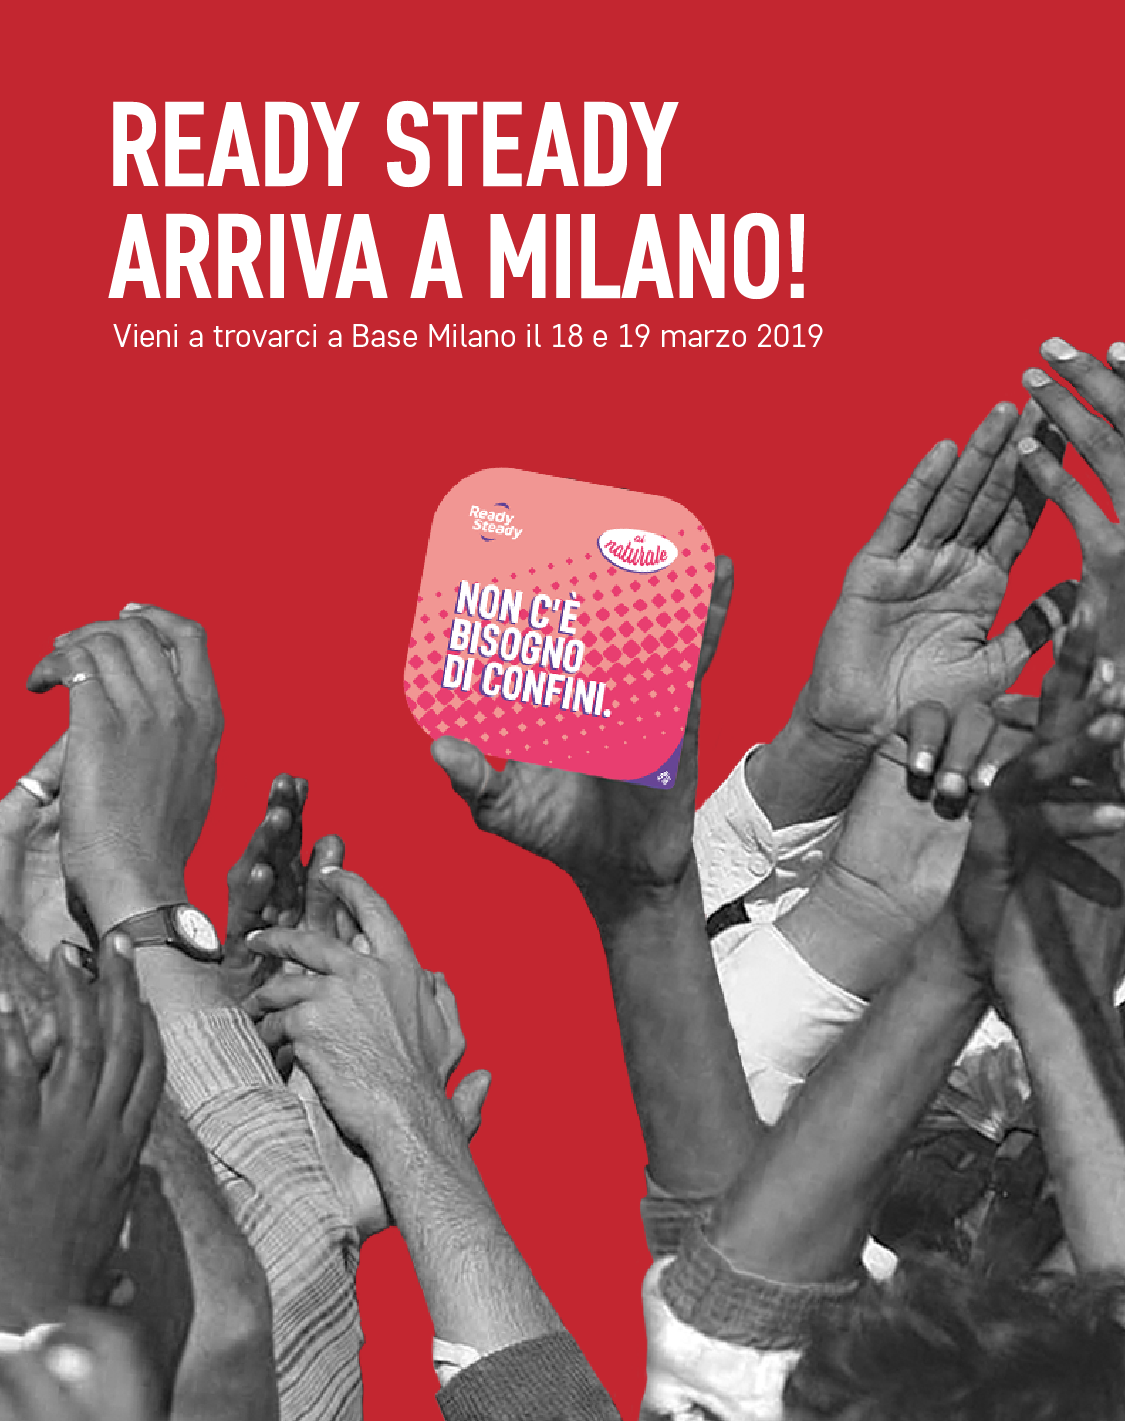
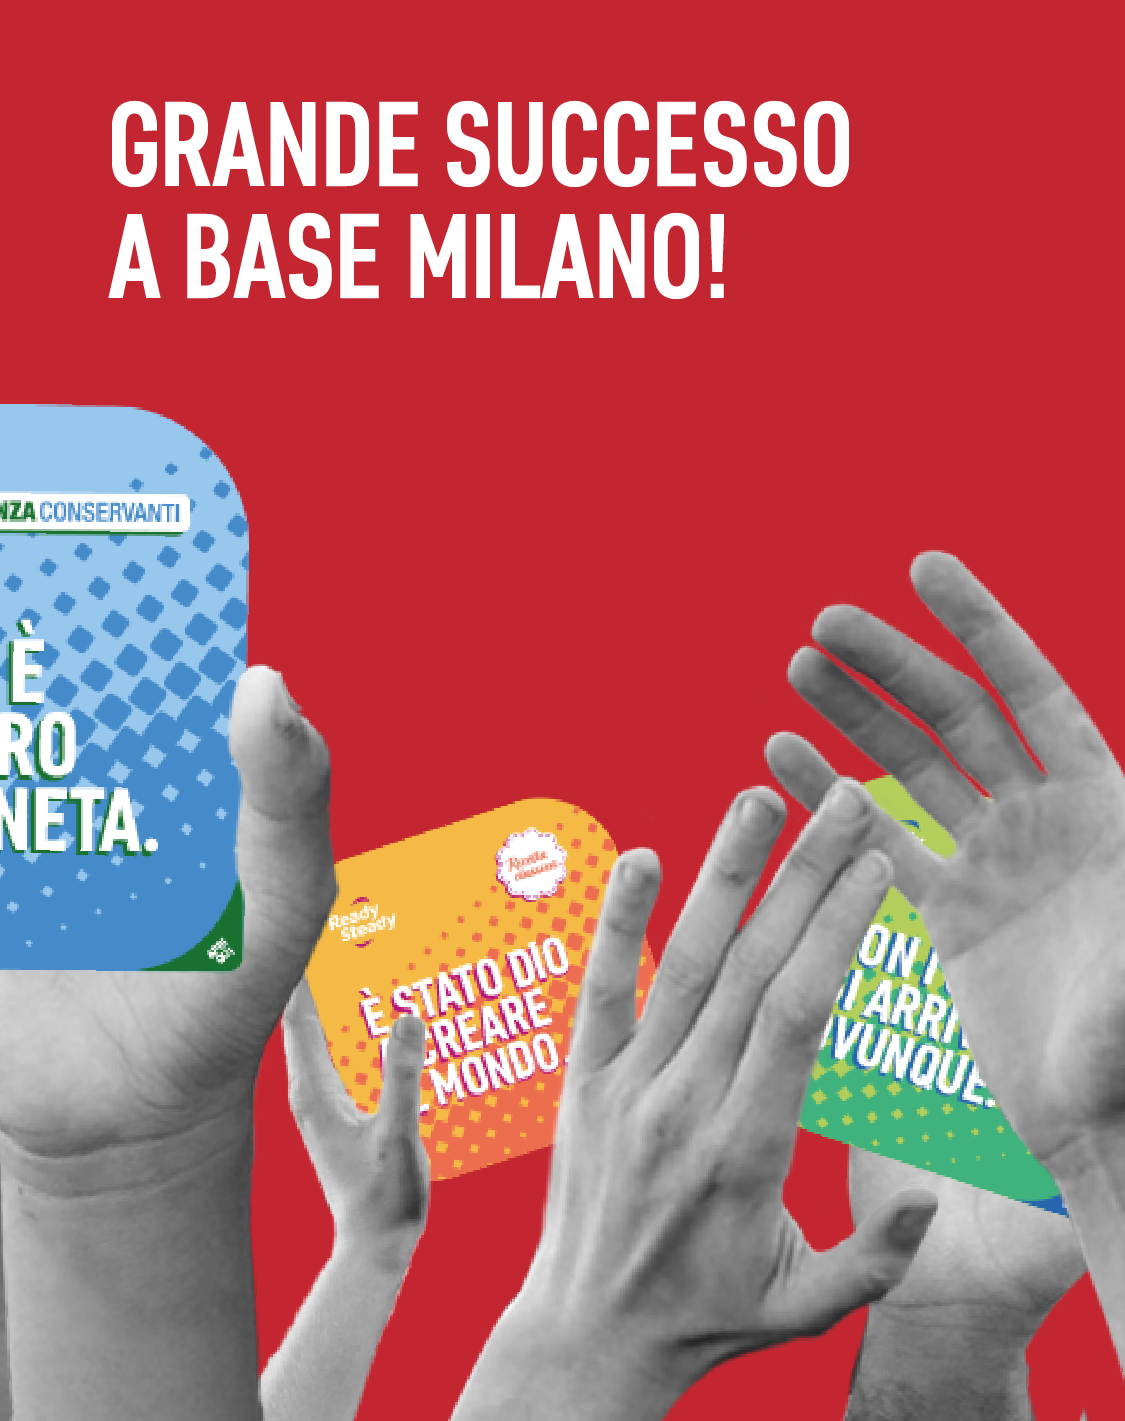
post

diff --git a/mobile/evento.mobile.html b/mobile/evento.mobile.html
@@ -1,0 +1,215 @@
+<html>
+<head>
+  <meta charset="utf-8">
+  <title>Ready Steady</title>
+  <script type="text/javascript" src="../jquery-2.1.1.min.js"></script>
+  <script type="text/javascript" src="../jquery.cookie.js"></script>
+  <link rel="stylesheet" type="text/css" href="header-mobile.css">
+  <style>
+
+
+      #titolo {
+        position: absolute;
+        top: 21.05%; left: 16.66%;
+        font-size: 666%;
+        font-family: coreBoldCn;
+      }
+
+      @font-face {
+          font-family: coreLight;
+          src: url(../fonts/CoreSansD25Light.otf);
+      }
+
+      .v {
+        position: absolute;
+        left: 0;
+        height: calc(100/19*6%); width: 100%;
+        background-size: contain;
+        background-repeat: no-repeat;
+        background-position: center bottom;
+        pointer-events: all;
+      }
+
+      #menu {
+        z-index: 1;
+      }
+
+      .contenitore {
+        pointer-events: none;
+      }
+
+      #contenitore1 {
+        position: absolute;
+        top: 0; left: 0;
+        width: 100%; height: 100%;
+      }
+
+      #contenitore2 {
+        position: absolute;
+        top: calc(100/19*6%); left: 0;
+        width: 100%; height: 100%;
+      }
+
+      #contenitore3  {
+        position: absolute;
+        top: calc(100/19*12%); left: 0;
+        width: 100%; height: 100%;
+      }
+
+      #contenitore4  {
+        position: absolute;
+        top: calc(100/19*18%); left: 0;
+        width: 100%; height: 100%;
+      }
+
+      .grande {
+        position: absolute;
+        left: 0;
+        height: calc(100/19*10%); width: 100%;
+        background-size: contain;
+        background-repeat: no-repeat;
+        background-position: center bottom;
+          pointer-events: all;
+      }
+
+      #barrasotto {
+        position: absolute;
+        top: calc(100/19*150%); left: 0;
+        width: 100%; height: calc(100/19*2%);
+          background-color: #c32630;
+      }
+
+      .categoria {
+        position: absolute;
+        font-family: coreBoldCn;
+        font-size: 333%;
+        top: calc(100/12*0.5%);
+      }
+      #instagram {
+        position: absolute;
+        left: 47%;
+        top: 50%;
+        transform: translate(-50%, -125%);
+        font-size: 222%;
+        text-align: center;
+        width: 100%;
+        pointer-events: all;
+        font-family: coreBold;
+        text-decoration: none;
+        color: white;
+      }
+
+      #instaicon {
+        position: absolute;
+        background-image: url("../links/instagram.png");
+        background-repeat: no-repeat;
+        left: 74.5%; top: 50%;
+        transform: translate(-50%, -40%);
+        width: 50px; height: 50px;
+        background-size: contain;
+        pointer-events: all;
+      }
+  </style>
+</head>
+
+<body>
+
+<div id="wrapper" class="noSelect">
+
+  <a href="index.mobile.html">
+  <div id="marchio">
+  </div>  </a>
+
+
+  <div id="barrasotto">
+    <p id="instagram">
+    Seguici su:<a style="text-decoration: none; color: white; font-family: coreLight;" href="https://www.instagram.com/readysteadyitalia/"> @readysteadyitalia</a>
+    </p>
+    <div id="instaicon"><a href="https://www.instagram.com/readysteadyitalia/"></a> </div>
+  </div>
+
+  <div id="linee">
+  </div>
+  <div id="titolo" class="testo"> CAMPIONI DI VENDITE </div>
+  <div id="menu">
+      <a id="m1" class="menutesto" href="prodotti.mobile.html">Prodotti</a>
+      <a id="m2" class="menutesto" href="negozi.mobile.html">Negozi</a>
+      <a id="m3" class="menutesto" href="../links/Volantino.pdf">Volantino</a>
+  </div>
+  <div id="wrapperbox">
+      <div id="filosofia-box">
+        <div id="ver1" class="filosofia box">
+        </div>
+        <div id="ver2" class="filosofia box">
+        </div>
+        <div id="ver3" class="filosofia box">
+        </div>
+        <div id="ver4" class="filosofia box">
+        </div>
+        <div id="ver5" class="filosofia box">
+        </div>
+      </div>
+
+      <div id="politica-box">
+        <div id="ver6" class="politica box">
+        </div>
+        <div id="ver7" class="politica box">
+        </div>
+        <div id="ver8" class="politica box">
+        </div>
+        <div id="ver9" class="politica box">
+        </div>
+        <div id="ver10" class="politica box">
+        </div>
+      </div>
+
+      <div id="societa-box">
+        <div id="ver11" class="societa box">
+        </div>
+        <div id="ver12" class="societa box">
+        </div>
+        <div id="ver13" class="societa box">
+        </div>
+        <div id="ver14" class="societa box">
+        </div>
+        <div id="ver15" class="societa box">
+        </div>
+      </div>
+
+      <div id="religione-box">
+        <div id="ver16" class="religione box">
+        </div>
+        <div id="ver17" class="religione box">
+        </div>
+        <div id="ver18" class="religione box">
+        </div>
+        <div id="ver19" class="religione box">
+        </div>
+        <div id="ver20" class="religione box">
+        </div>
+      </div>
+      <div id="corona">
+      </div>
+  </div>
+</div>
+
+</body>
+
+<script>
+
+//MENU
+$("#linee").on("click", function() {
+  $("#menu").slideToggle()
+  $("#linee").toggleClass("frecciamenu");
+})
+
+
+
+//FOOTER
+$("#barrasotto").click(function() {
+    window.location=$(this).find("a").attr("href"); return false; //link
+})
+
+</script>
+
+</html>

diff --git a/mobile/negozi.mobile.html b/mobile/negozi.mobile.html
@@ -171,6 +171,7 @@
       color: #c32630;
       opacity: 1;
     }
+
 </style>
 
 <body>
@@ -187,7 +188,7 @@
 
   <div id="button"> <span id="testobutton"> Cerca </span> </div>
 
-  <div id="negoziovicino" class="testo"> Il negozio più vicino a te è in: <br> Via Bergognone, 34, 20144 Milano MI </div>
+  <div id="negoziovicino" class="testo"> Il negozio più vicino a te è in: <br> Via Bergognone 34, Milano -<span style="color: #c32630;"> Ora chiuso</span> </div>
   <iframe id="map" src="https://www.google.com/maps/embed?pb=!1m18!1m12!1m3!1d2798.8635705984807!2d9.162121515091767!3d45.45240527910086!2m3!1f0!2f0!3f0!3m2!1i1024!2i768!4f13.1!3m3!1m2!1s0x4786c3e5ba100051%3A0xe79c993799f1fe46!2sBASE+Milano!5e0!3m2!1sit!2sit!4v1545336274749" frameborder="0" style="border:0" allowfullscreen></iframe>
 
   <div id="menu">
@@ -221,7 +222,7 @@
     if (testo != "") {
       $("#negoziovicino").fadeIn();
       $("#map").fadeIn()
-    }   else {
+    }  else {
       $("#cercatesto").addClass("red")
     }
   }

diff --git a/mobile/index.mobile.html b/mobile/index.mobile.html
@@ -1,3 +1,4 @@
+
 <html>
 <head>
 <meta charset="utf-8">
@@ -95,9 +96,9 @@
     top: 7.89%; left: 101%;
     width: 100%; height: 35.8%;
     background-size: 140%;
-    background-position: center center;
+    background-position: center bottom;
     background-repeat: no-repeat;
-    background-image: url("./links/banner3.png");
+    background-image: url("./links/banner3post.png");
     background-color: #c32630;
   }
 
